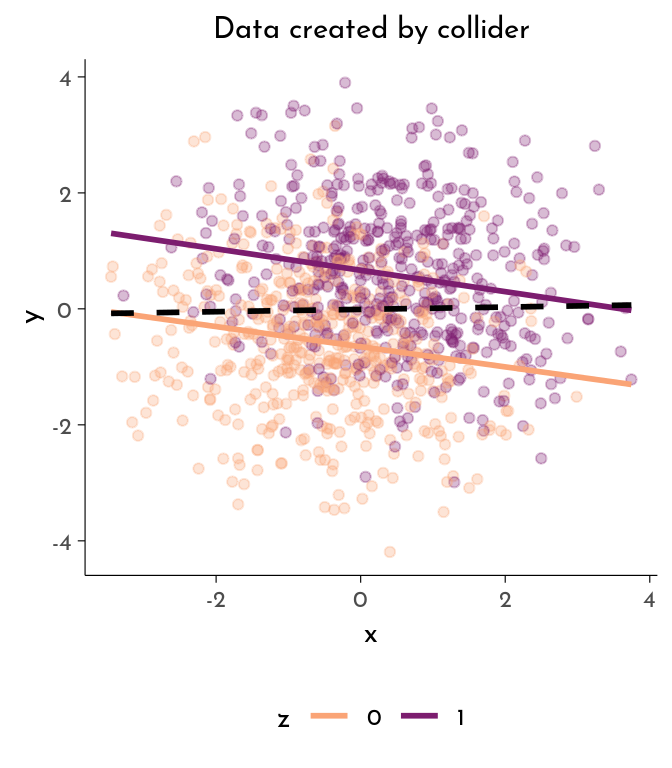
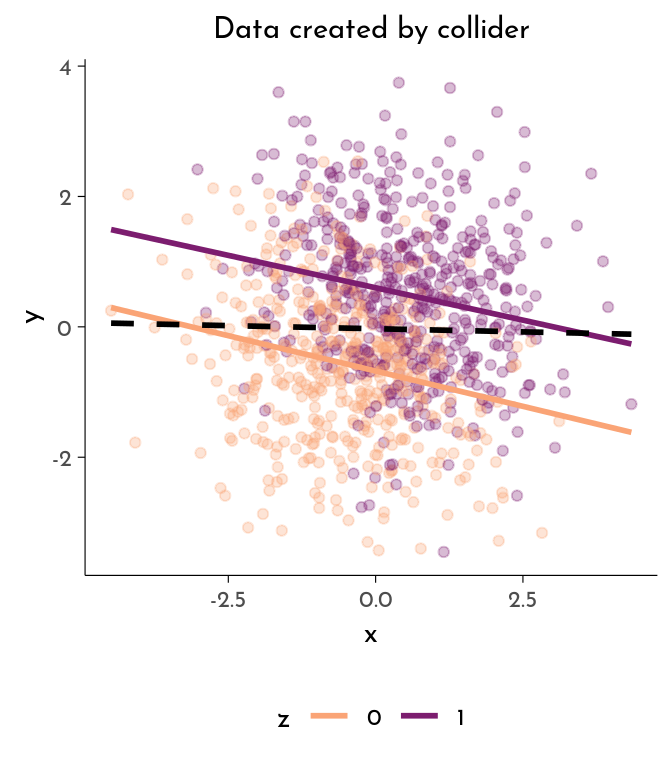
update

diff --git a/dag_elements_pres.html b/dag_elements_pres.html
@@ -441,22 +441,17 @@ div.callout-tip.callout-style-default .callout-caption {
 <div class="callout callout-tip no-icon callout-captioned callout-style-default">
 <div class="callout-body">
 <div class="callout-caption">
-<p><strong>Disclaimer</strong></p>
+<p><strong>Why to DAG?</strong></p>
 </div>
 <div class="callout-content">
-<p>All content taken from Richard McElreths lecture on <a href="https://www.youtube.com/watch?v=KNPYUVmY3NM">Causal Inference</a>.<br></p>
+<p>All content taken from Richard McElreths lecture on <a href="https://www.youtube.com/watch?v=KNPYUVmY3NM">Causal Inference</a>.</p>
 </div>
 </div>
 </div>
-<p>DAGs can be a useful tool for <em>causal inference</em> - as opposed to purely <em>predictive modelling</em>.</p>
-<p><em>Causal inference</em> is <span style="color:#faa476;"><em>“predicting the consequences of interventions”</em></span> (wind/leafs) or <span style="color:#faa476;"><em>“imputation of missing data”</em></span> (counterfactuals / Chinese landed on moon first).</p>
 <div class="cell">
 
 </div>
-</section>
-<section class="slide level2 center">
-
-<p>Why to DAG? <span class="math inline">\(\rightarrow\)</span> to sketch out causal assumptions and <span style="color:#faa476;">avoid <em>causal salad</em></span>.</p>
+<p><span class="math inline">\(\rightarrow\)</span> to sketch out causal assumptions and <span style="color:#faa476;">avoid <em>causal salad</em></span>.</p>
 
 <img data-src="causal_salad.jpg" width="319" class="r-stretch quarto-figure-center"></section>
 <section class="slide level2 center">
@@ -492,9 +487,10 @@ div.callout-tip.callout-style-default .callout-caption {
 <div class="cell">
 <div class="sourceCode cell-code" id="cb1"><pre class="sourceCode r code-with-copy"><code class="sourceCode r"><span id="cb1-1"><a href="#cb1-1" aria-hidden="true" tabindex="-1"></a>data <span class="ot">&lt;-</span> <span class="fu">tibble</span>(</span>
 <span id="cb1-2"><a href="#cb1-2" aria-hidden="true" tabindex="-1"></a> <span class="at">x =</span> <span class="fu">rnorm</span>(<span class="at">n =</span> n),</span>
-<span id="cb1-3"><a href="#cb1-3" aria-hidden="true" tabindex="-1"></a> <span class="at">z =</span> <span class="fu">as.numeric</span>(<span class="fu">rnorm</span>(<span class="at">n =</span> n, <span class="at">mean =</span> x) <span class="sc">&gt;</span> <span class="dv">0</span>),</span>
-<span id="cb1-4"><a href="#cb1-4" aria-hidden="true" tabindex="-1"></a> <span class="at">y =</span> <span class="fu">rnorm</span>(n, <span class="at">mean =</span> <span class="fl">1.5</span><span class="sc">*</span>(z<span class="fl">-.3</span>))</span>
-<span id="cb1-5"><a href="#cb1-5" aria-hidden="true" tabindex="-1"></a>)</span></code><button title="Copy to Clipboard" class="code-copy-button"><i class="bi"></i></button></pre></div>
+<span id="cb1-3"><a href="#cb1-3" aria-hidden="true" tabindex="-1"></a> <span class="at">z =</span> <span class="fu">rbinom</span>(<span class="at">n =</span> n, <span class="at">size =</span> <span class="dv">1</span>,</span>
+<span id="cb1-4"><a href="#cb1-4" aria-hidden="true" tabindex="-1"></a>            <span class="at">prob =</span> <span class="fu">inv_logit</span>(x)),</span>
+<span id="cb1-5"><a href="#cb1-5" aria-hidden="true" tabindex="-1"></a> <span class="at">y =</span> <span class="fu">rnorm</span>(n, <span class="at">mean =</span> <span class="fl">1.5</span><span class="sc">*</span>(z<span class="fl">-.3</span>))</span>
+<span id="cb1-6"><a href="#cb1-6" aria-hidden="true" tabindex="-1"></a>)</span></code><button title="Copy to Clipboard" class="code-copy-button"><i class="bi"></i></button></pre></div>
 </div>
 </div><div class="column" style="width:40%;">
 <div class="cell">
@@ -514,17 +510,17 @@ div.callout-tip.callout-style-default .callout-caption {
 lm(formula = y ~ x, data = data)
 
             Estimate Std. Error t value Pr(&gt;|t|) signif
-(Intercept)   0.2678     0.0367  7.3036   &lt;10^-4    ***
-x             0.4295     0.0363 11.8440   &lt;10^-4    ***
+(Intercept)   0.3056     0.0383  7.9887   &lt;10^-4    ***
+x             0.2172     0.0378  5.7427   &lt;10^-4    ***
 
 Linear Model stratified by z
 ----------------------------
 lm(formula = y ~ x + z, data = data)
 
-            Estimate Std. Error t value Pr(&gt;|t|) signif
-(Intercept)  -0.4844     0.0488 -9.9227   &lt;10^-4    ***
-x             0.0225     0.0368  0.6109   0.5414       
-z             1.4867     0.0745 19.9550   &lt;10^-4    ***</code></pre>
+            Estimate Std. Error  t value Pr(&gt;|t|) signif
+(Intercept)  -0.4753     0.0458 -10.3773   &lt;10^-4    ***
+x            -0.0748     0.0331  -2.2641   0.0238      *
+z             1.5444     0.0669  23.0951   &lt;10^-4    ***</code></pre>
 </div>
 </div>
 </section>
@@ -561,10 +557,11 @@ z             1.4867     0.0745 19.9550   &lt;10^-4    ***</code></pre>
 <p>Simulating data created by a fork:</p>
 <div class="cell">
 <div class="sourceCode cell-code" id="cb3"><pre class="sourceCode r code-with-copy"><code class="sourceCode r"><span id="cb3-1"><a href="#cb3-1" aria-hidden="true" tabindex="-1"></a>data <span class="ot">&lt;-</span> <span class="fu">tibble</span>(</span>
-<span id="cb3-2"><a href="#cb3-2" aria-hidden="true" tabindex="-1"></a> <span class="at">z =</span> <span class="fu">as.numeric</span>(<span class="fu">rnorm</span>(<span class="at">n =</span> n) <span class="sc">&gt;</span> <span class="dv">0</span>),</span>
-<span id="cb3-3"><a href="#cb3-3" aria-hidden="true" tabindex="-1"></a> <span class="at">x =</span> <span class="fu">rnorm</span>(<span class="at">n =</span> n, <span class="at">mean =</span> z) <span class="sc">*</span> <span class="fl">1.3</span>,</span>
-<span id="cb3-4"><a href="#cb3-4" aria-hidden="true" tabindex="-1"></a> <span class="at">y =</span> <span class="fu">rnorm</span>(n, <span class="at">mean =</span> z) <span class="sc">*</span> <span class="fl">1.3</span></span>
-<span id="cb3-5"><a href="#cb3-5" aria-hidden="true" tabindex="-1"></a>)</span></code><button title="Copy to Clipboard" class="code-copy-button"><i class="bi"></i></button></pre></div>
+<span id="cb3-2"><a href="#cb3-2" aria-hidden="true" tabindex="-1"></a> <span class="at">z =</span> <span class="fu">rbinom</span>(<span class="at">n =</span> n, <span class="at">size =</span> <span class="dv">1</span>,</span>
+<span id="cb3-3"><a href="#cb3-3" aria-hidden="true" tabindex="-1"></a>            <span class="at">prob =</span> .<span class="dv">5</span>),</span>
+<span id="cb3-4"><a href="#cb3-4" aria-hidden="true" tabindex="-1"></a> <span class="at">x =</span> <span class="fu">rnorm</span>(<span class="at">n =</span> n, <span class="at">mean =</span> <span class="fl">1.5</span> <span class="sc">*</span> z),</span>
+<span id="cb3-5"><a href="#cb3-5" aria-hidden="true" tabindex="-1"></a> <span class="at">y =</span> <span class="fu">rnorm</span>(<span class="at">n =</span> n, <span class="at">mean =</span> <span class="fl">1.5</span> <span class="sc">*</span> z)</span>
+<span id="cb3-6"><a href="#cb3-6" aria-hidden="true" tabindex="-1"></a>)</span></code><button title="Copy to Clipboard" class="code-copy-button"><i class="bi"></i></button></pre></div>
 </div>
 </div><div class="column" style="width:40%;">
 <div class="cell">
@@ -584,17 +581,17 @@ z             1.4867     0.0745 19.9550   &lt;10^-4    ***</code></pre>
 lm(formula = y ~ x, data = data)
 
             Estimate Std. Error t value Pr(&gt;|t|) signif
-(Intercept)   0.5304     0.0492 10.7781   &lt;10^-4    ***
-x             0.1777     0.0311  5.7192   &lt;10^-4    ***
+(Intercept)   0.4657     0.0443 10.5029   &lt;10^-4    ***
+x             0.3458     0.0302 11.4390   &lt;10^-4    ***
 
 Linear Model stratified by z
 ----------------------------
 lm(formula = y ~ x + z, data = data)
 
             Estimate Std. Error t value Pr(&gt;|t|) signif
-(Intercept)   0.0511     0.0595  0.8588   0.3906       
-x             0.0184     0.0315  0.5841   0.5593       
-z             1.1492     0.0913 12.5855   &lt;10^-4    ***</code></pre>
+(Intercept)  -0.0500     0.0451 -1.1072   0.2685       
+x            -0.0463     0.0319 -1.4505   0.1472       
+z             1.6470     0.0811 20.2991   &lt;10^-4    ***</code></pre>
 </div>
 </div>
 </section>
@@ -677,17 +674,17 @@ z             1.1492     0.0913 12.5855   &lt;10^-4    ***</code></pre>
 lm(formula = y ~ x, data = data)
 
             Estimate Std. Error t value Pr(&gt;|t|) signif
-(Intercept)  -0.0090     0.0423 -0.2136   0.8309       
-x             0.0199     0.0333  0.5988   0.5495       
+(Intercept)  -0.0293     0.0403 -0.7269   0.4675       
+x            -0.0192     0.0305 -0.6296   0.5291       
 
 Linear Model stratified by z
 ----------------------------
 lm(formula = y ~ x + z, data = data)
 
             Estimate Std. Error  t value Pr(&gt;|t|) signif
-(Intercept)  -0.6561     0.0550 -11.9245   &lt;10^-4    ***
-x            -0.1792     0.0321  -5.5831   &lt;10^-4    ***
-z             1.3194     0.0817  16.1504   &lt;10^-4    ***</code></pre>
+(Intercept)  -0.6729     0.0530 -12.6971   &lt;10^-4    ***
+x            -0.2080     0.0294  -7.0817   &lt;10^-4    ***
+z             1.2771     0.0776  16.4468   &lt;10^-4    ***</code></pre>
 </div>
 </div>
 </section>

diff --git a/dag_elements.html b/dag_elements.html
@@ -190,9 +190,10 @@ DAG structure: x <span class="math inline">\(\rightarrow\)</span> z <span class=
 </div>
 </div>
 <div class="cell">
-<div class="sourceCode cell-code" id="cb1"><pre class="sourceCode r code-with-copy"><code class="sourceCode r"><span id="cb1-1"><a href="#cb1-1" aria-hidden="true" tabindex="-1"></a>data <span class="ot">&lt;-</span> <span class="fu">tibble</span>(<span class="at">x =</span> <span class="fu">rnorm</span>(<span class="at">n =</span> n),</span>
-<span id="cb1-2"><a href="#cb1-2" aria-hidden="true" tabindex="-1"></a>               <span class="at">z =</span> <span class="fu">as.numeric</span>(<span class="fu">rnorm</span>(<span class="at">n =</span> n, <span class="at">mean =</span> x) <span class="sc">&gt;</span> <span class="dv">0</span>),</span>
-<span id="cb1-3"><a href="#cb1-3" aria-hidden="true" tabindex="-1"></a>               <span class="at">y =</span> <span class="fu">rnorm</span>(n, <span class="at">mean =</span> <span class="fl">1.5</span><span class="sc">*</span>(z<span class="fl">-.3</span>)))</span></code><button title="Copy to Clipboard" class="code-copy-button"><i class="bi"></i></button></pre></div>
+<div class="sourceCode cell-code" id="cb1"><pre class="sourceCode r code-with-copy"><code class="sourceCode r"><span id="cb1-1"><a href="#cb1-1" aria-hidden="true" tabindex="-1"></a>data <span class="ot">&lt;-</span> <span class="fu">tibble</span>( <span class="at">x =</span> <span class="fu">rnorm</span>(<span class="at">n =</span> n),</span>
+<span id="cb1-2"><a href="#cb1-2" aria-hidden="true" tabindex="-1"></a>                <span class="at">z =</span> <span class="fu">rbinom</span>(<span class="at">n =</span> n, <span class="at">size =</span> <span class="dv">1</span>,</span>
+<span id="cb1-3"><a href="#cb1-3" aria-hidden="true" tabindex="-1"></a>                           <span class="at">prob =</span> <span class="fu">inv_logit</span>(x)),</span>
+<span id="cb1-4"><a href="#cb1-4" aria-hidden="true" tabindex="-1"></a>                <span class="at">y =</span> <span class="fu">rnorm</span>(n, <span class="at">mean =</span> <span class="fl">1.5</span><span class="sc">*</span>(z<span class="fl">-.3</span>)))</span></code><button title="Copy to Clipboard" class="code-copy-button"><i class="bi"></i></button></pre></div>
 </div>
 <div class="cell">
 <div class="sourceCode cell-code" id="cb2"><pre class="sourceCode r code-with-copy"><code class="sourceCode r"><span id="cb2-1"><a href="#cb2-1" aria-hidden="true" tabindex="-1"></a><span class="fu">plot_data</span>(data, <span class="st">"Data created by pipe"</span>)</span></code><button title="Copy to Clipboard" class="code-copy-button"><i class="bi"></i></button></pre></div>
@@ -206,17 +207,17 @@ DAG structure: x <span class="math inline">\(\rightarrow\)</span> z <span class=
 lm(formula = y ~ x, data = data)
 
             Estimate Std. Error t value Pr(&gt;|t|) signif
-(Intercept)   0.2996     0.0372  8.0457   &lt;10^-4    ***
-x             0.4009     0.0372 10.7897   &lt;10^-4    ***
+(Intercept)   0.3361     0.0381  8.8179   &lt;10^-4    ***
+x             0.2984     0.0380  7.8474   &lt;10^-4    ***
 
 Linear Model stratified by z
 ----------------------------
 lm(formula = y ~ x + z, data = data)
 
             Estimate Std. Error t value Pr(&gt;|t|) signif
-(Intercept)  -0.3967     0.0513 -7.7342   &lt;10^-4    ***
-x             0.0101     0.0394  0.2555   0.7984       
-z             1.3864     0.0789 17.5705   &lt;10^-4    ***</code></pre>
+(Intercept)  -0.4129     0.0474 -8.7055   &lt;10^-4    ***
+x            -0.0015     0.0346 -0.0435   0.9653       
+z             1.4707     0.0693 21.2071   &lt;10^-4    ***</code></pre>
 </div>
 </div>
 <div class="callout-tip callout callout-style-default callout-captioned">
@@ -252,9 +253,9 @@ DAG structure: x <span class="math inline">\(\leftarrow\)</span> z <span class="
 </div>
 </div>
 <div class="cell">
-<div class="sourceCode cell-code" id="cb5"><pre class="sourceCode r code-with-copy"><code class="sourceCode r"><span id="cb5-1"><a href="#cb5-1" aria-hidden="true" tabindex="-1"></a>data <span class="ot">&lt;-</span> <span class="fu">tibble</span>(<span class="at">z =</span> <span class="fu">as.numeric</span>(<span class="fu">rnorm</span>(<span class="at">n =</span> n) <span class="sc">&gt;</span> <span class="dv">0</span>),</span>
-<span id="cb5-2"><a href="#cb5-2" aria-hidden="true" tabindex="-1"></a>               <span class="at">x =</span> <span class="fu">rnorm</span>(<span class="at">n =</span> n, <span class="at">mean =</span> z) <span class="sc">*</span> <span class="fl">1.3</span>,</span>
-<span id="cb5-3"><a href="#cb5-3" aria-hidden="true" tabindex="-1"></a>               <span class="at">y =</span> <span class="fu">rnorm</span>(n, <span class="at">mean =</span> z) <span class="sc">*</span> <span class="fl">1.3</span>)</span></code><button title="Copy to Clipboard" class="code-copy-button"><i class="bi"></i></button></pre></div>
+<div class="sourceCode cell-code" id="cb5"><pre class="sourceCode r code-with-copy"><code class="sourceCode r"><span id="cb5-1"><a href="#cb5-1" aria-hidden="true" tabindex="-1"></a>data <span class="ot">&lt;-</span> <span class="fu">tibble</span>( <span class="at">z =</span> <span class="fu">rbinom</span>(<span class="at">n =</span> n, <span class="at">size =</span> <span class="dv">1</span>, <span class="at">prob =</span> .<span class="dv">5</span>),</span>
+<span id="cb5-2"><a href="#cb5-2" aria-hidden="true" tabindex="-1"></a>                <span class="at">x =</span> <span class="fu">rnorm</span>(<span class="at">n =</span> n, <span class="at">mean =</span> <span class="fl">1.5</span> <span class="sc">*</span> z),</span>
+<span id="cb5-3"><a href="#cb5-3" aria-hidden="true" tabindex="-1"></a>                <span class="at">y =</span> <span class="fu">rnorm</span>(<span class="at">n =</span> n, <span class="at">mean =</span> <span class="fl">1.5</span> <span class="sc">*</span> z))</span></code><button title="Copy to Clipboard" class="code-copy-button"><i class="bi"></i></button></pre></div>
 </div>
 <div class="cell">
 <div class="sourceCode cell-code" id="cb6"><pre class="sourceCode r code-with-copy"><code class="sourceCode r"><span id="cb6-1"><a href="#cb6-1" aria-hidden="true" tabindex="-1"></a><span class="fu">plot_data</span>(data, <span class="st">"Data created by fork"</span>)</span></code><button title="Copy to Clipboard" class="code-copy-button"><i class="bi"></i></button></pre></div>
@@ -268,17 +269,17 @@ DAG structure: x <span class="math inline">\(\leftarrow\)</span> z <span class="
 lm(formula = y ~ x, data = data)
 
             Estimate Std. Error t value Pr(&gt;|t|) signif
-(Intercept)   0.5094     0.0492 10.3514   &lt;10^-4    ***
-x             0.2394     0.0305  7.8546   &lt;10^-4    ***
+(Intercept)   0.4707     0.0426 11.0446   &lt;10^-4    ***
+x             0.3670     0.0296 12.3864   &lt;10^-4    ***
 
 Linear Model stratified by z
 ----------------------------
 lm(formula = y ~ x + z, data = data)
 
             Estimate Std. Error t value Pr(&gt;|t|) signif
-(Intercept)   0.0607     0.0592  1.0243   0.3060       
-x             0.0568     0.0323  1.7584   0.0790       
-z             1.1646     0.0968 12.0327   &lt;10^-4    ***</code></pre>
+(Intercept)   0.0190     0.0457  0.4151   0.6782       
+x             0.0304     0.0325  0.9350   0.3500       
+z             1.3866     0.0805 17.2199   &lt;10^-4    ***</code></pre>
 </div>
 </div>
 <div class="callout-tip callout callout-style-default callout-captioned">
@@ -356,17 +357,17 @@ Restaurant Example
 lm(formula = y ~ x, data = data)
 
             Estimate Std. Error t value Pr(&gt;|t|) signif
-(Intercept)  -0.0796     0.0413 -1.9261   0.0544       
-x             0.0086     0.0325  0.2634   0.7923       
+(Intercept)  -0.0090     0.0402 -0.2247   0.8222       
+x            -0.0132     0.0298 -0.4422   0.6585       
 
 Linear Model stratified by z
 ----------------------------
 lm(formula = y ~ x + z, data = data)
 
             Estimate Std. Error  t value Pr(&gt;|t|) signif
-(Intercept)  -0.6922     0.0532 -13.0067   &lt;10^-4    ***
-x            -0.1777     0.0313  -5.6760   &lt;10^-4    ***
-z             1.2701     0.0795  15.9675   &lt;10^-4    ***</code></pre>
+(Intercept)  -0.6629     0.0538 -12.3261   &lt;10^-4    ***
+x            -0.2212     0.0294  -7.5237   &lt;10^-4    ***
+z             1.2918     0.0794  16.2720   &lt;10^-4    ***</code></pre>
 </div>
 </div>
 <div class="callout-tip callout callout-style-default callout-captioned">
